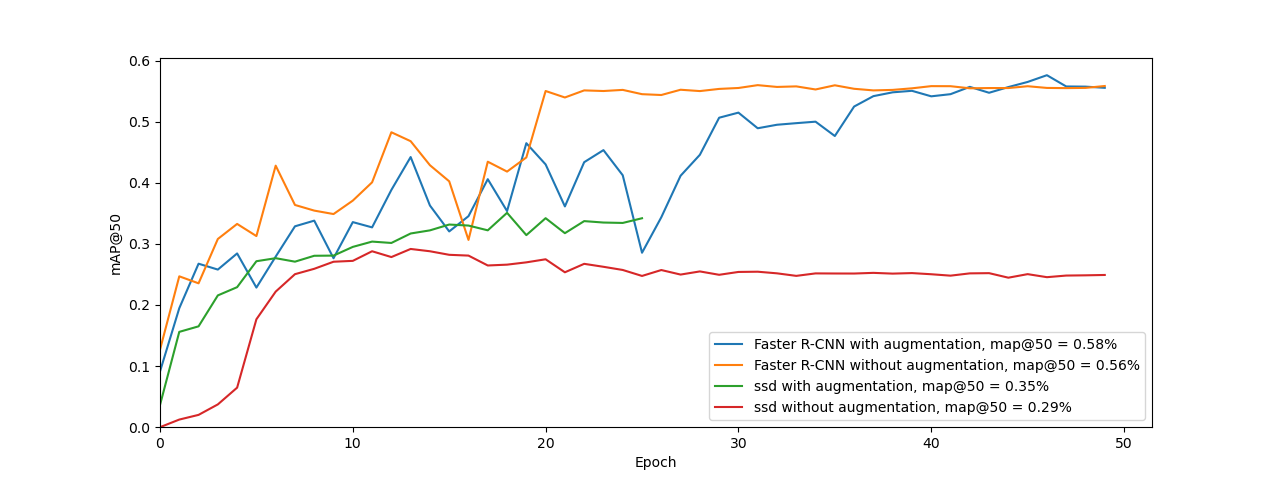
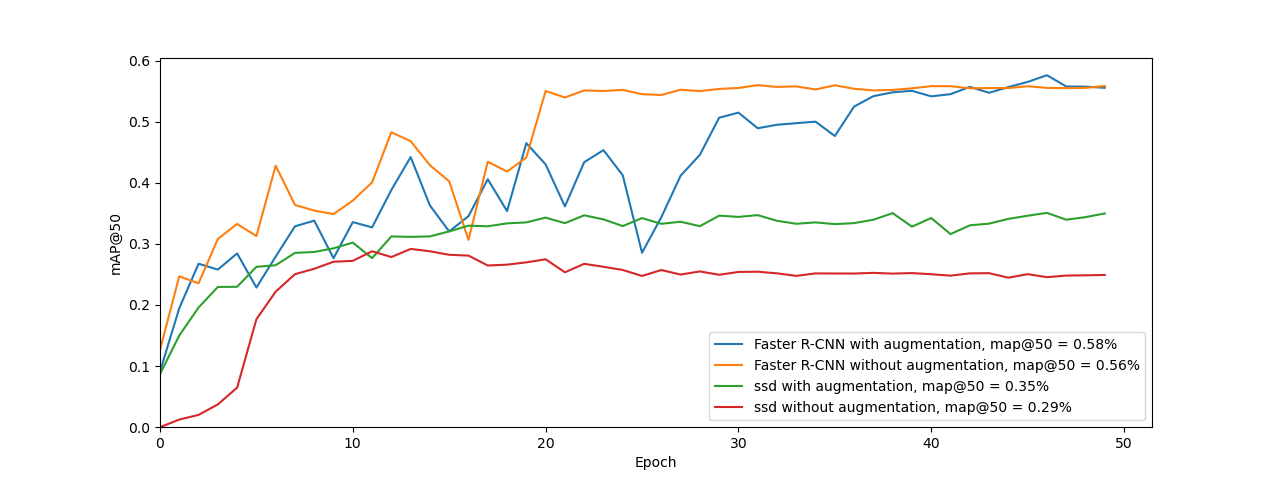
plots

diff --git a/train_ssd_mapillary.py b/train_ssd_mapillary.py
@@ -35,7 +35,7 @@ def create_model(size=300):
     return model
 
 class Detector(pl.LightningModule):
-    def __init__(self, num_epochs = 50, **kwargs):
+    def __init__(self, num_epochs = 50, divisorregularizer = 1, **kwargs):
         super().__init__()
 
         #set model to ssd with vgg16 backbone, batch size & Metric for the evaluation
@@ -44,6 +44,8 @@ class Detector(pl.LightningModule):
         self.batch_size = 16
         self.num_epochs = num_epochs
         self.metric = MeanAveragePrecision(iou_type="bbox", class_metrics=True)
+        self.divisor_regularizer = divisorregularizer
+
 
 
     
@@ -96,18 +98,17 @@ class Detector(pl.LightningModule):
     def configure_optimizers(self):
         #ToDo: read Adam
         #optimizer = torch.optim.Adam(self.model.parameters(), lr=0.001)#what about eps, weight_decay, maximize
-        optimizer = torch.optim.SGD(self.model.parameters(), lr=0.001, momentum=0.9, weight_decay=0.0005)
+        optimizer = torch.optim.SGD(self.model.parameters(), lr=0.001, momentum=0.9, weight_decay=(0.1/self.divisor_regularizer))
         #ToDo: read about scheduler, experiment
         #after every batch. step should be called after a batch has been used for training.
-
         #scheduler = torch.optim.lr_scheduler.OneCycleLR(optimizer, total_steps=self.total_steps(), max_lr=0.01, pct_start=0.1, anneal_strategy='cos', cycle_momentum= True, base_momentum= 0.85, max_momentum= 0.95, div_factor= 25.0, final_div_factor= 1000.0, last_epoch=-1)
         #return [optimizer], [scheduler]
         return [optimizer]
 
-
-net = Detector(50)
-checkpoint_callback = ModelCheckpoint(dirpath='/graphics/scratch2/students/kornwolfd/ML_CV_practicalCourse/checkpoint_RoadSigns/Mapillary', monitor="mAP_50", filename='{epoch}-{mAP_50:.3f}', mode='max')
-lr_monitor = LearningRateMonitor(logging_interval='step')
-tb_logger = pl_loggers.TensorBoardLogger(save_dir="/graphics/scratch2/students/kornwolfd/ML_CV_practicalCourse/lightningLogs_RoadSigns/Mapillary", version='mapillary_ssd_resize640')
-trainer = pl.Trainer(accelerator='gpu', devices=[0], max_epochs=net.num_epochs, num_sanity_val_steps=2, callbacks=[checkpoint_callback, lr_monitor], gradient_clip_val=None, deterministic=True, logger=tb_logger)
-trainer.fit(net)
+for i in range(1, 100001, 10):
+    net = Detector(50)
+    checkpoint_callback = ModelCheckpoint(dirpath='/graphics/scratch2/students/kornwolfd/ML_CV_practicalCourse/checkpoint_RoadSigns/Mapillary', monitor="mAP_50", filename='{epoch}-{mAP_50:.3f}', mode='max')
+    lr_monitor = LearningRateMonitor(logging_interval='step')
+    tb_logger = pl_loggers.TensorBoardLogger(save_dir="/graphics/scratch2/students/kornwolfd/ML_CV_practicalCourse/lightningLogs_RoadSigns/Mapillary", version='mapillary_ssd_resize640_'+str(0.1/i)+'weight_decay')
+    trainer = pl.Trainer(accelerator='gpu', devices=[0], max_epochs=net.num_epochs, num_sanity_val_steps=2, callbacks=[checkpoint_callback, lr_monitor], gradient_clip_val=None, deterministic=True, logger=tb_logger)
+    trainer.fit(net)

diff --git a/plots/ssd_mapillary_overfitting_losses.py b/plots/ssd_mapillary_overfitting_losses.py
@@ -3,11 +3,11 @@ import json
 import numpy as np
 import matplotlib.pyplot as plt 
 
-ssd_map = []
+ssd_loss_noaug = []
 ssd_loss = []
 
 
-with open('/home/kornwolfd/ML_CV_practicalCourse/plots/plotData/loss_aug_lightning_logs_mapillary_ssd_blur_noise_scale_tans.csv') as file:  
+with open('/home/kornwolfd/ML_CV_practicalCourse/plots/plotData/mapillary_ssd_augm_loss_step.csv') as file:  
     lines = csv.reader(file, delimiter=',') 
     for row in lines: 
         if 'Step' in row:
@@ -16,10 +16,19 @@ with open('/home/kornwolfd/ML_CV_practicalCourse/plots/plotData/loss_aug_lightni
 ssd_loss_every3rd = ssd_loss[:185:3]
 ssd_loss_final = ssd_loss_every3rd[:50]
 
+with open('/home/kornwolfd/ML_CV_practicalCourse/plots/plotData/loss_lightning_logs_mapillary_ssd_lr0.001_momentum0.9_wd0.0005.csv') as file:  
+    lines = csv.reader(file, delimiter=',') 
+    for row in lines: 
+        if 'Step' in row:
+            continue
+        ssd_loss_noaug.append(float(row[2]))
+ssd_loss_noaug_every3rd = ssd_loss_noaug[:185:3]
+ssd_loss_noauug_final = ssd_loss_noaug_every3rd[:50]
+
 
 plt.figure(figsize=(6.4, 4.8)) 
-plt.plot(np.arange(50), ssd_loss_final[:50], linestyle = 'solid', label = "ssd with augmentation, map@50 = " + str(round(max(ssd_loss_final[:50]),2)) +"%") 
-#plt.plot(np.arange(50), ssd_noaug_map[:50], linestyle = 'solid', label = "ssd without augmentation, map@50 = " + str(round(max(ssd_noaug_map[:50]),2)) +"%") 
+plt.plot(np.arange(50), ssd_loss_final[:50], linestyle = 'solid', label = "ssd with augmentation") 
+plt.plot(np.arange(50), ssd_loss_noauug_final[:50], linestyle = 'solid', label = "ssd without augmentation") 
 
   
 plt.minorticks_off()
@@ -29,7 +38,7 @@ plt.ylim(0)
 plt.yscale('linear')
 plt.xlabel('Epoch') 
 plt.ylabel('Loss') 
-#plt.legend() 
+plt.legend() 
 
 
-plt.savefig('/home/kornwolfd/ML_CV_practicalCourse/plots/overfitting_Aug_loss.png')
+plt.savefig('/home/kornwolfd/ML_CV_practicalCourse/plots/overfitting_Augnoaug_loss.png')

diff --git a/plots/ssd_mapillary_overfitting.py b/plots/ssd_mapillary_overfitting.py
@@ -4,9 +4,16 @@ import numpy as np
 import matplotlib.pyplot as plt 
 
 ssd_map = []
+ssd_map_noaug = []
 
+with open('/home/kornwolfd/ML_CV_practicalCourse/plots/plotData/map_lightning_logs_mapillary_ssd_lr0.001_momentum0.9_wd0.0005.csv') as f:  
+    lines = csv.reader(f, delimiter=',') 
+    for row in lines: 
+        if 'Step' in row:
+            continue
+        ssd_map_noaug.append(float(row[2]))
 
-with open('/home/kornwolfd/ML_CV_practicalCourse/plots/plotData/map_lightning_logs_mapillary_ssd_blur_noise_scale_tans.csv') as f:  
+with open('/home/kornwolfd/ML_CV_practicalCourse/plots/plotData/mapillary_ssd_augm_map.csv') as f:  
     lines = csv.reader(f, delimiter=',') 
     for row in lines: 
         if 'Step' in row:
@@ -15,7 +22,7 @@ with open('/home/kornwolfd/ML_CV_practicalCourse/plots/plotData/map_lightning_lo
 
 plt.figure(figsize=(6.4, 4.8)) 
 plt.plot(np.arange(50), ssd_map[:50], linestyle = 'solid', label = "ssd with augmentation, map@50 = " + str(round(max(ssd_map[:50]),2)) +"%") 
-#plt.plot(np.arange(50), ssd_noaug_map[:50], linestyle = 'solid', label = "ssd without augmentation, map@50 = " + str(round(max(ssd_noaug_map[:50]),2)) +"%") 
+plt.plot(np.arange(50), ssd_map_noaug[:50], linestyle = 'solid', label = "ssd without augmentation, map@50 = " + str(round(max(ssd_map_noaug[:50]),2)) +"%") 
 
   
 plt.minorticks_off()
@@ -28,4 +35,4 @@ plt.ylabel('mAP@50')
 #plt.legend() 
 
 
-plt.savefig('/home/kornwolfd/ML_CV_practicalCourse/plots/overfitting_Aug_map.png')
+plt.savefig('/home/kornwolfd/ML_CV_practicalCourse/plots/overfitting_Augnoaug_map.png')

diff --git a/plots/MapillaryComparison.py b/plots/MapillaryComparison.py
@@ -10,7 +10,7 @@ ssd_noaug_map = []
 ssd_aug_map = []
 
 
-with open('/home/kornwolfd/ML_CV_practicalCourse/plots/plotData/map_lightning_logs_mapillary_ssd_blur_noise_scale_tans.csv') as file:  
+with open('/home/kornwolfd/ML_CV_practicalCourse/plots/plotData/mapillary_ssd_augm_map.csv') as file:  
     lines = csv.reader(file, delimiter=',') 
     for row in lines: 
         if 'Step' in row:

diff --git a/data/Mapillary/mapillary_dataset.py b/data/Mapillary/mapillary_dataset.py
@@ -22,7 +22,7 @@ class Mapillary_Dataset(Dataset):
     def __init__(self, aug_parameter, data_dir, phase='train'):
         super().__init__()
         self.aug_parameter = aug_parameter
-        self.augmentor = DataAugmentation()
+        #self.augmentor = DataAugmentation()
         self.data_dir = data_dir+phase+'ing/'+phase
         self.phase = phase
 
